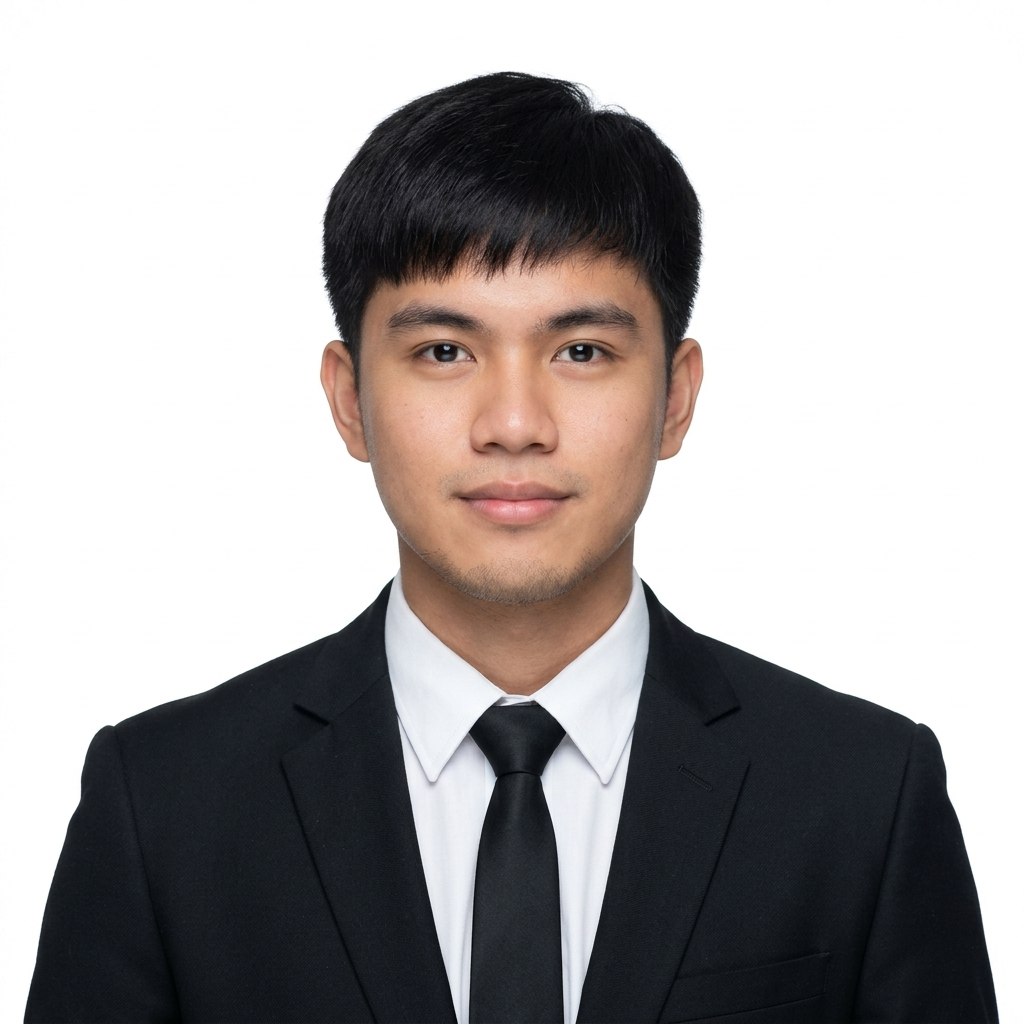
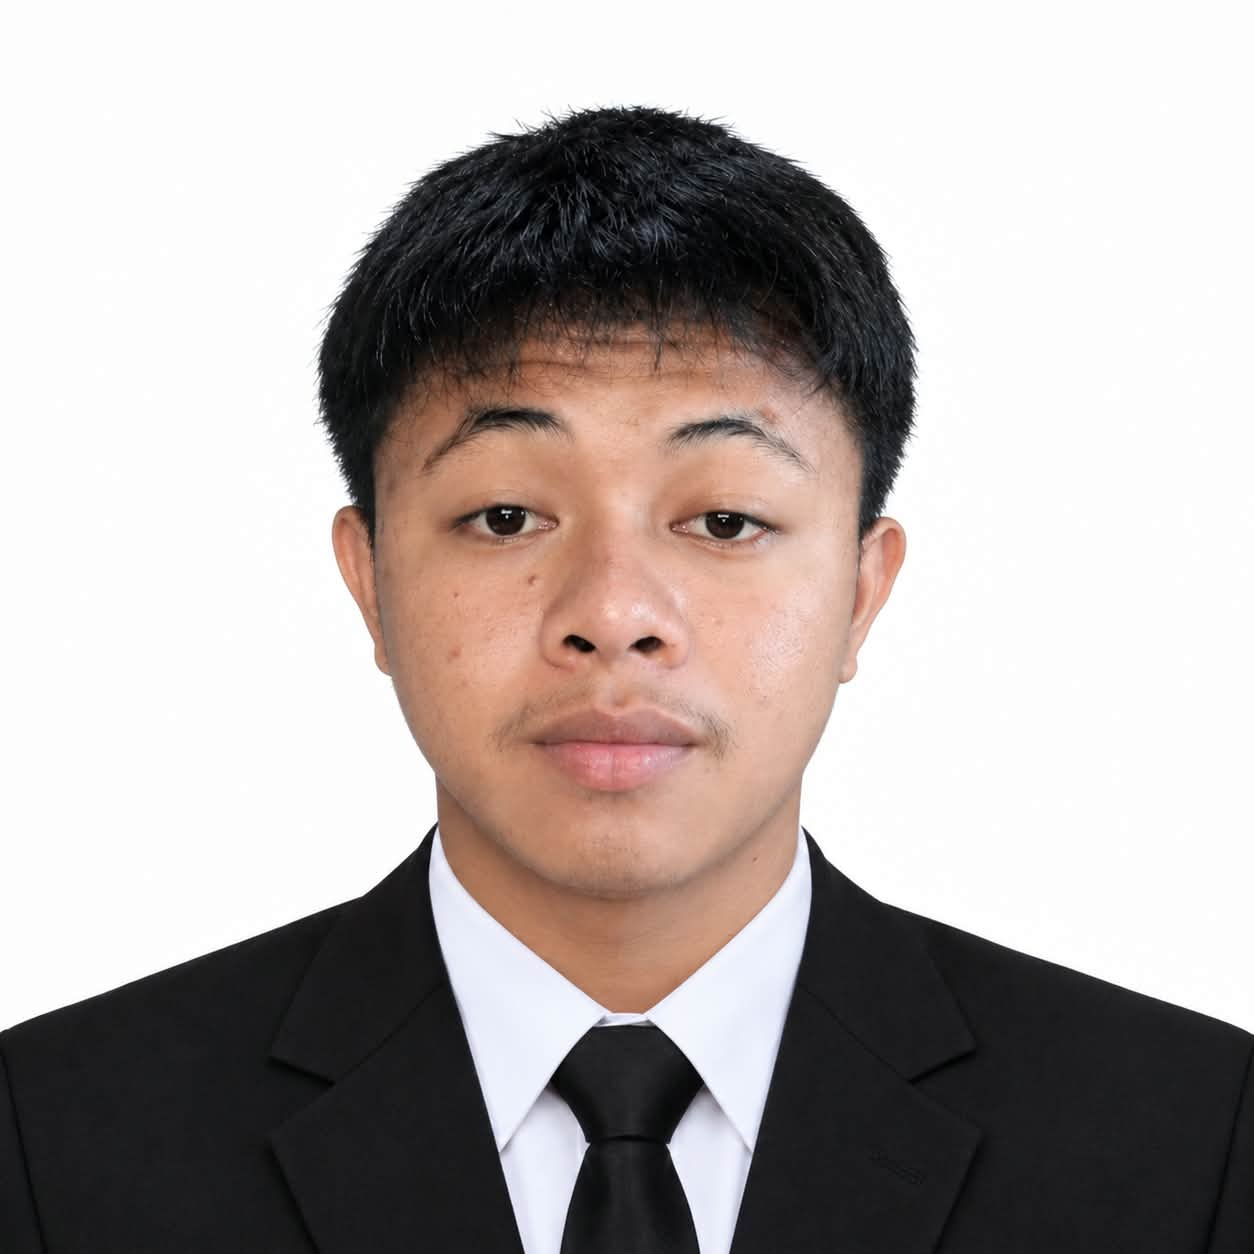
feat: update profile image to "juswa" assets
Replace the formal suit profile photo with new "juswa" image assets and update the server routing and frontend components to support the new files.

Changed region(s): [[0.0, 0.0625, 1.0, 1.0], [0.1562, 0.9375, 0.1875, 1.0]]

diff --git a/server.js b/server.js
@@ -53,11 +53,15 @@ if (fs.existsSync(publicImagesPath)) {
 }
 
 // Dedicated profile image shortcut
-app.get(['/profile.jpg', '/profile-photo.jpg'], (req, res) => {
+app.get(['/profile.jpg', '/profile.png', '/juswa.jpg', '/juswa.png', '/profile-photo.jpg'], (req, res) => {
   const candidates = [
+    path.join(distPath, 'juswa.jpg'),
+    path.join(distPath, 'juswa.png'),
+    path.join(__dirname, 'public', 'juswa.jpg'),
+    path.join(srcImagesPath, 'juswa.jpg'),
+    path.join(distPath, 'assets', 'images', 'juswa.jpg'),
     path.join(distPath, 'assets', 'images', 'joshua_formal_suit_1791945332404.jpg'),
     path.join(srcImagesPath, 'joshua_formal_suit_1791945332404.jpg'),
-    path.join(distPath, 'src', 'assets', 'images', 'joshua_formal_suit_1791945332404.jpg'),
   ];
   for (const file of candidates) {
     if (fs.existsSync(file)) {

diff --git a/src/components/Hero.tsx b/src/components/Hero.tsx
@@ -1,7 +1,7 @@
 import React, { useState, useRef, useEffect } from 'react';
 import { ArrowDown, Code, Github, Mail, Facebook, Instagram, ExternalLink, Terminal, Sparkles, Upload, Camera, RefreshCw } from 'lucide-react';
 import { PERSONAL_INFO } from '../data/portfolioData';
-import joshuaFormalSuitPhoto from '../assets/images/joshua_formal_suit_1791945332404.jpg';
+import juswaPhoto from '../assets/images/juswa.jpg';
 
 interface HeroProps {
   onOpenTerminal: () => void;
@@ -9,7 +9,7 @@ interface HeroProps {
 }
 
 export const Hero: React.FC<HeroProps> = ({ onOpenTerminal, onOpenResume }) => {
-  const DEFAULT_PHOTO = joshuaFormalSuitPhoto;
+  const DEFAULT_PHOTO = juswaPhoto;
   const [profileImg, setProfileImg] = useState<string>(() => {
     try {
       const saved = localStorage.getItem('joshua_custom_profile');

diff --git a/src/data/portfolioData.ts b/src/data/portfolioData.ts
@@ -5,7 +5,7 @@ import facultyEvalImg from '../assets/images/faculty_eval_mockup_1793244976470.j
 import feedbackSystemImg from '../assets/images/feedback_system_hero_1791941188202.jpg';
 import developerWorkspaceImg from '../assets/images/developer_workspace_1791941188781.jpg';
 import campusLabPortalImg from '../assets/images/campus_lab_portal_1791941189331.jpg';
-import joshuaPhoto from '../assets/images/joshua_formal_suit_1791945332404.jpg';
+import joshuaPhoto from '../assets/images/juswa.jpg';
 
 export const PERSONAL_INFO = {
   fullName: 'Joshua Kim S. Entrina',
